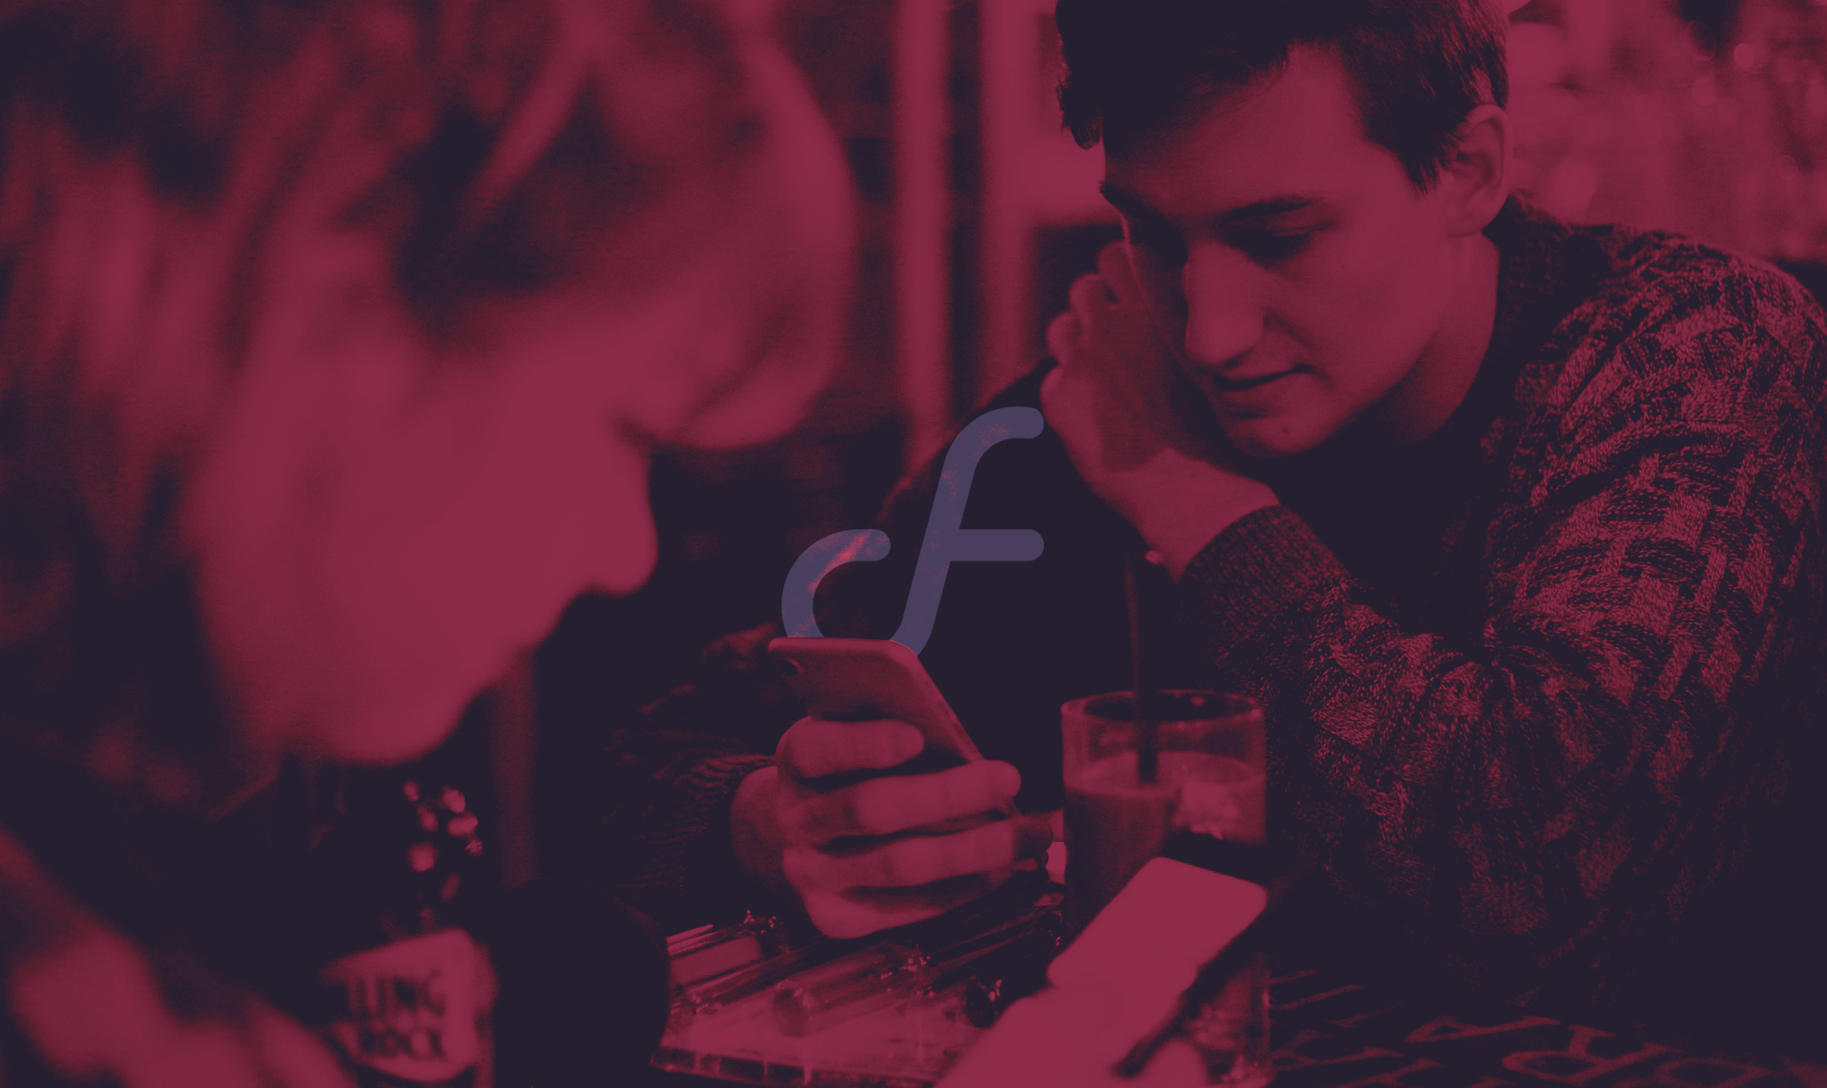
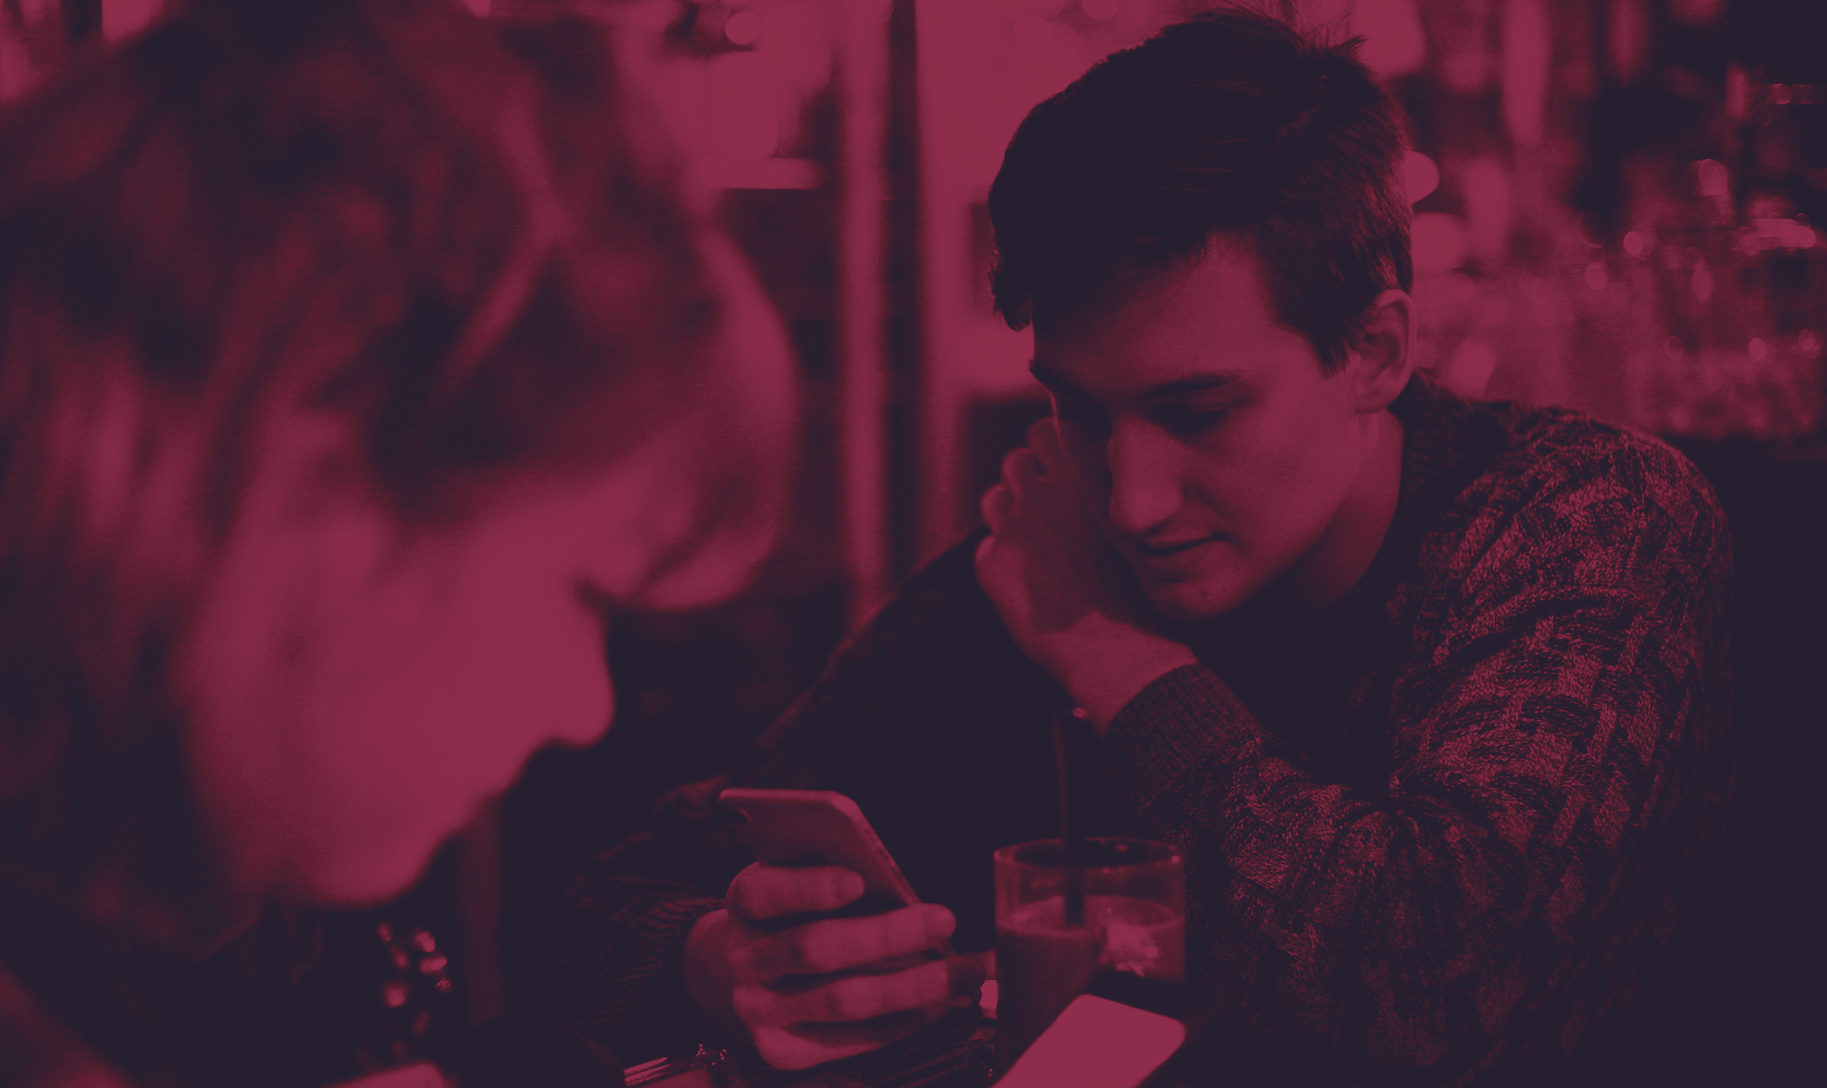
form to google sheets implemented

diff --git a/flowshare.html b/flowshare.html
@@ -6,6 +6,7 @@
     <title>FlowShare: Prototype with confidence</title>
     <link href="https://fonts.googleapis.com/css?family=Lato:300,700" rel="stylesheet">
     <link rel="stylesheet" type="text/css" href="style.css">
+    <script src="index.js"></script>
   </head>
   <body>
     <div id="welcome">
@@ -13,11 +14,11 @@
         <div id="tagline">
           <img id="white-logo" src="logo-symbol-05.png">
           <p id="hi">Hi, we're <span class="flowshare">FlowShare</span></p>
-          <p id="tagline-main">And we want to boldly change the way<br> the world makes apps</p>
+          <p id="tagline-main">And we want to boldly change the way<br> the world prototypes</p>
         </div>
         <div class= "wrapper" id="form">
-          <input class="input" placeholder="Your e-mail" type="text" autofocus>
-          <div class="button">
+          <input class="input" id="email-input" placeholder="Your e-mail" type="text" autofocus>
+          <div class="button" id="get-flowshare">
             <span class="button-text">Get FlowShare</span>
           </div>
         </div>
@@ -41,9 +42,11 @@
     <div id="third-content">
       <p><span class="flowshare">FlowShare</span> allows your team to collect usage data without the need
       to publish your app to get it</p>
+      <img src="metrics.png" id="metrics">
     </div>
     <div id="second-content">
       <p>We want to close the gap between you and your users</p>
+      <img src="white-symbol.png" id="white-symbol">
     </div>
     <div id="last-content">
       <p id="tagline-last">Make better decisions from real feedback.</p>

diff --git a/index.js b/index.js
@@ -1,0 +1,26 @@
+function xhrCallback(xhr) {
+
+}
+
+window.onload = function() {
+  var url = "https://script.google.com/macros/s/AKfycbyW5fZXgNokXnjuKAStEUwpUID8-nU5z3ugpXs_fqBK1VCfzU8/exec"
+  var getFlowshare = document.getElementById("get-flowshare");
+  getFlowshare.onclick = function() {
+    console.log("Clicked");
+    var inputValue = document.getElementById("email-input").value;
+    console.log("Input: " + inputValue);
+    if (inputValue) {
+      var request = new XMLHttpRequest();
+      request.onreadystatechange = function() {
+        console.log(request.readyState);
+        if (request.readyState == 4) {
+          console.log("Success");
+          xhrCallback(request);
+        }
+      };
+      var urlWithData = url + "?email=" + inputValue;
+      request.open("GET", urlWithData);
+      request.send();
+    }
+  };
+}

diff --git a/style.css b/style.css
@@ -115,12 +115,7 @@ body {
   text-align: center;
   display: inline-block;
   float: none;
-}
-
-@media screen and (min-width: 825px) {
-  #welcome {
-    padding: 20px;
-  }
+  cursor: pointer;
 }
 
 #first-content {
@@ -189,7 +184,7 @@ body {
 
 #third-content {
   height: 100vh;
-  background-image: url('image-third.jpg');
+  background-image: url('image-third.png');
   background-size: cover;
 }
 
@@ -201,6 +196,16 @@ body {
   font-size: 1.5em;
   margin: 0;
   padding-top: 30px;
+}
+
+#metrics {
+  width: 140px;
+  height: auto;
+}
+
+#white-symbol {
+  width: 112px;
+  height: auto;
 }
 
 #last-content {
